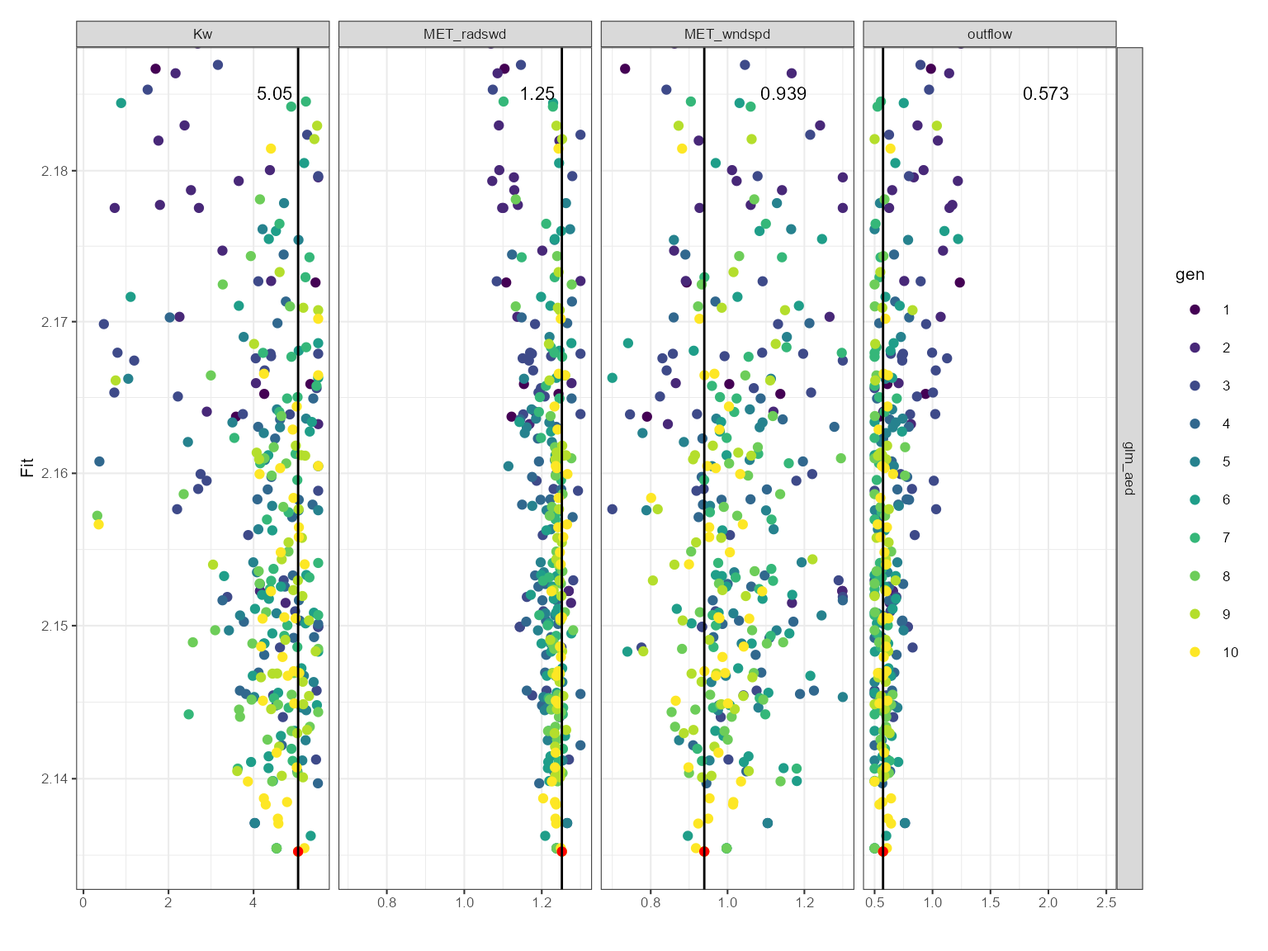
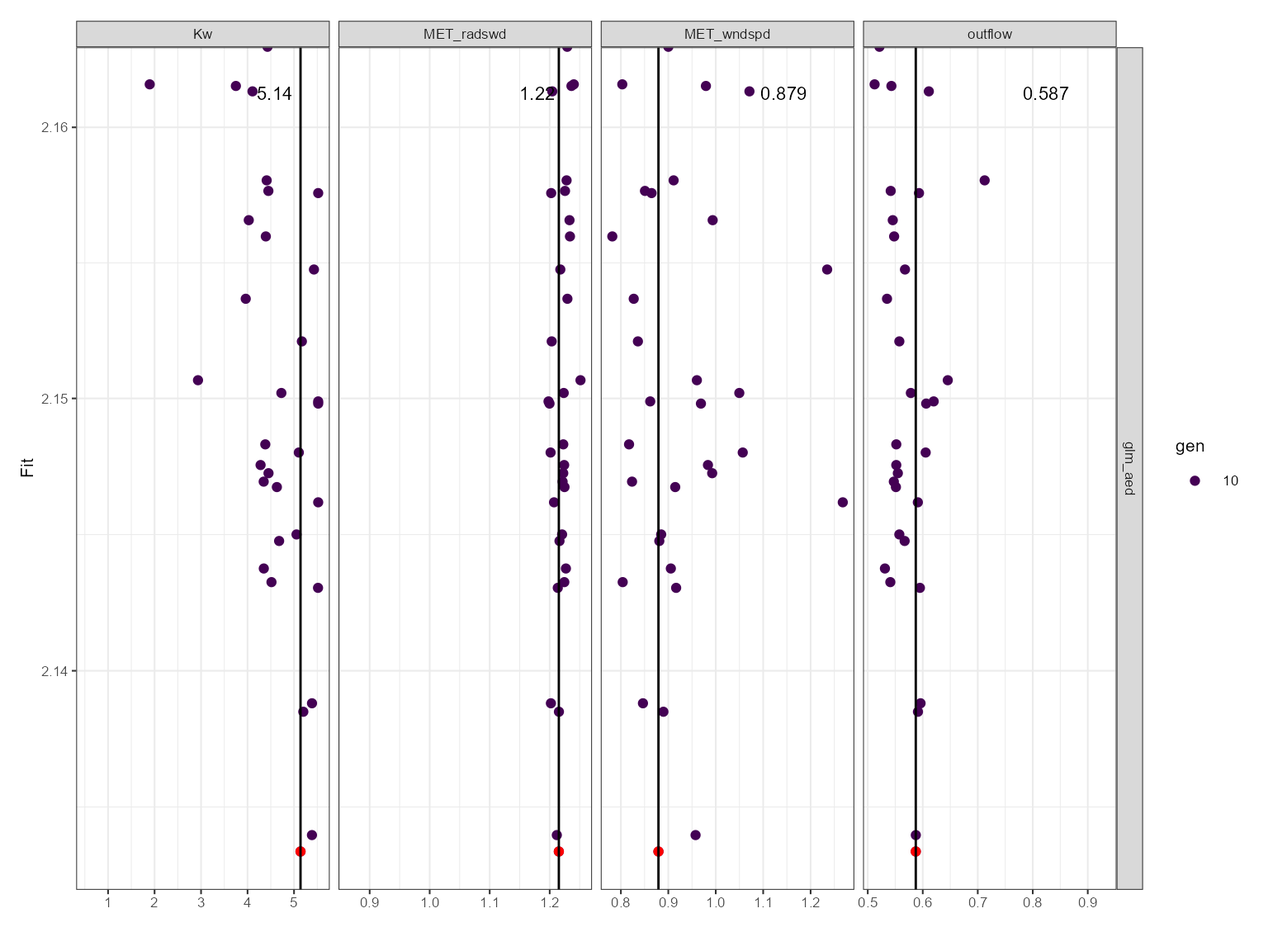
Deploying to gh-pages from @ limnotrack/aemetools@8c4f77b0e2bd330ee721761af3145bfec17b4a3d 🚀

diff --git a/articles/calibrate-aeme.html b/articles/calibrate-aeme.html
@@ -121,9 +121,9 @@ make sure the current model setup is working.</p>
 <code class="sourceCode R"><span><span class="va">aeme_data</span> <span class="op">&lt;-</span> <span class="fu"><a href="https://rdrr.io/pkg/AEME/man/run_aeme.html" class="external-link">run_aeme</a></span><span class="op">(</span>aeme_data <span class="op">=</span> <span class="va">aeme_data</span>, model <span class="op">=</span> <span class="va">model</span>,</span>
 <span>                      verbose <span class="op">=</span> <span class="cn">FALSE</span>, mod_ctrls <span class="op">=</span> <span class="va">mod_ctrls</span>,</span>
 <span>                      path <span class="op">=</span> <span class="va">path</span><span class="op">)</span></span>
-<span><span class="co">#&gt; Running models... (Have you tried parallelizing?) [2024-01-05 03:34:43]</span></span>
-<span><span class="co">#&gt; GLM-AED run successful! [2024-01-05 03:34:44]</span></span>
-<span><span class="co">#&gt; Model run complete![2024-01-05 03:34:44]</span></span>
+<span><span class="co">#&gt; Running models... (Have you tried parallelizing?) [2024-01-08 02:20:13]</span></span>
+<span><span class="co">#&gt; GLM-AED run successful! [2024-01-08 02:20:14]</span></span>
+<span><span class="co">#&gt; Model run complete![2024-01-08 02:20:14]</span></span>
 <span><span class="co">#&gt; Retrieving and formatting temp for model glm_aed</span></span>
 <span><span class="co">#&gt; Retrieving and formatting salt for model glm_aed</span></span>
 <span><span class="fu"><a href="https://rdrr.io/r/graphics/plot.default.html" class="external-link">plot</a></span><span class="op">(</span><span class="va">aeme_data</span><span class="op">)</span></span></code></pre></div>
@@ -228,9 +228,9 @@ but the model output is generate within the lake folder.</p>
 <div class="sourceCode" id="cb7"><pre class="downlit sourceCode r">
 <code class="sourceCode R"><span><span class="fu"><a href="../reference/run_aeme_param.html">run_aeme_param</a></span><span class="op">(</span>aeme_data <span class="op">=</span> <span class="va">aeme_data</span>, param <span class="op">=</span> <span class="va">aeme_parameters</span>,</span>
 <span>                 model <span class="op">=</span> <span class="va">model</span>, path <span class="op">=</span> <span class="va">path</span>, mod_ctrls <span class="op">=</span> <span class="va">mod_ctrls</span><span class="op">)</span></span>
-<span><span class="co">#&gt; Running models... (Have you tried parallelizing?) [2024-01-05 03:34:50]</span></span>
-<span><span class="co">#&gt; GLM-AED run successful! [2024-01-05 03:34:51]</span></span>
-<span><span class="co">#&gt; Model run complete![2024-01-05 03:34:51]</span></span></code></pre></div>
+<span><span class="co">#&gt; Running models... (Have you tried parallelizing?) [2024-01-08 02:20:26]</span></span>
+<span><span class="co">#&gt; GLM-AED run successful! [2024-01-08 02:20:27]</span></span>
+<span><span class="co">#&gt; Model run complete![2024-01-08 02:20:27]</span></span></code></pre></div>
 </div>
 <div class="section level2">
 <h2 id="calibration-setup">Calibration setup<a class="anchor" aria-label="anchor" href="#calibration-setup"></a>
@@ -379,90 +379,80 @@ values.</p>
 <span>                   param <span class="op">=</span> <span class="va">aeme_parameters</span>, model <span class="op">=</span> <span class="va">model</span>,</span>
 <span>                   mod_ctrls <span class="op">=</span> <span class="va">mod_ctrls</span>, FUN_list <span class="op">=</span> <span class="va">FUN_list</span>, ctrl <span class="op">=</span> <span class="va">ctrl</span>,</span>
 <span>                   vars_sim <span class="op">=</span> <span class="va">vars_sim</span>, weights <span class="op">=</span> <span class="va">weights</span><span class="op">)</span></span>
-<span><span class="co">#&gt; Extracting indices for modelled variables [2024-01-05 03:34:51]</span></span>
-<span><span class="co">#&gt; Complete! [2024-01-05 03:34:52]</span></span>
+<span><span class="co">#&gt; Extracting indices for modelled variables [2024-01-08 02:20:27]</span></span>
+<span><span class="co">#&gt; Complete! [2024-01-08 02:20:28]</span></span>
 <span><span class="co">#&gt; Calibrating in parallel using 1 cores...</span></span>
-<span><span class="co">#&gt; Starting generation 1/10, 40 members. [2024-01-05 03:34:53]</span></span>
+<span><span class="co">#&gt; Starting generation 1/10, 40 members. [2024-01-08 02:20:28]</span></span>
 <span><span class="co">#&gt;        light.Kw MET_wndspd MET_radswd outflow</span></span>
-<span><span class="co">#&gt; mean      2.814     1.0000     0.9990  1.4990</span></span>
-<span><span class="co">#&gt; median    2.788     1.0020     0.9997  1.4930</span></span>
-<span><span class="co">#&gt; sd        1.577     0.1755     0.1760  0.5854</span></span>
-<span><span class="co">#&gt; Best fit: 2.152 (sd: 216.943)</span></span>
-<span><span class="co">#&gt;             Parameters: [4.152, 1.299, 1.27, 0.658]</span></span>
-<span><span class="co">#&gt; Writing output for generation 1 to results.csv. [2024-01-05 03:35:31]</span></span>
+<span><span class="co">#&gt; mean      2.816     1.0000     0.9995  1.5020</span></span>
+<span><span class="co">#&gt; median    2.829     1.0040     0.9986  1.5000</span></span>
+<span><span class="co">#&gt; sd        1.588     0.1746     0.1759  0.5872</span></span>
+<span><span class="co">#&gt; Best fit: 2.16 (sd: 222.003)</span></span>
+<span><span class="co">#&gt;             Parameters: [3.715, 0.993, 1.249, 0.955]</span></span>
 <span><span class="co">#&gt; Survival rate: 1</span></span>
-<span><span class="co">#&gt; Starting generation 2/10, 40 members. [2024-01-05 03:35:31]</span></span>
+<span><span class="co">#&gt; Starting generation 2/10, 40 members. [2024-01-08 02:21:03]</span></span>
 <span><span class="co">#&gt;        light.Kw MET_wndspd MET_radswd outflow</span></span>
-<span><span class="co">#&gt; mean      2.887     1.0650      1.088  1.0000</span></span>
-<span><span class="co">#&gt; median    2.702     1.0550      1.090  0.9216</span></span>
-<span><span class="co">#&gt; sd        1.734     0.1692      0.124  0.4290</span></span>
-<span><span class="co">#&gt; Writing output for generation 2 to results.csv. [2024-01-05 03:36:08]</span></span>
-<span><span class="co">#&gt; Best fit: 2.1499 (sd: 128.32)</span></span>
+<span><span class="co">#&gt; mean      2.974     1.0630    1.14500  0.9813</span></span>
+<span><span class="co">#&gt; median    2.908     1.0860    1.16100  0.9149</span></span>
+<span><span class="co">#&gt; sd        1.880     0.1495    0.08808  0.4569</span></span>
+<span><span class="co">#&gt; Best fit: 2.1403 (sd: 138.01)</span></span>
 <span><span class="co">#&gt; Survival rate: 1</span></span>
-<span><span class="co">#&gt; Starting generation 3/10, 40 members. [2024-01-05 03:36:08]</span></span>
+<span><span class="co">#&gt; Starting generation 3/10, 40 members. [2024-01-08 02:21:38]</span></span>
 <span><span class="co">#&gt;        light.Kw MET_wndspd MET_radswd outflow</span></span>
-<span><span class="co">#&gt; mean      3.821     1.0210    1.19100  0.9032</span></span>
-<span><span class="co">#&gt; median    4.081     1.0040    1.20300  0.8055</span></span>
-<span><span class="co">#&gt; sd        1.472     0.1723    0.09369  0.4150</span></span>
-<span><span class="co">#&gt; Writing output for generation 3 to results.csv. [2024-01-05 03:36:46]</span></span>
-<span><span class="co">#&gt; Best fit: 2.1371 (sd: 132.15)</span></span>
+<span><span class="co">#&gt; mean      3.511     1.0050    1.16500  0.8872</span></span>
+<span><span class="co">#&gt; median    3.289     1.0080    1.18600  0.8108</span></span>
+<span><span class="co">#&gt; sd        1.163     0.1469    0.09507  0.3310</span></span>
+<span><span class="co">#&gt; Best fit: 2.1403 (sd: 106.19)</span></span>
 <span><span class="co">#&gt; Survival rate: 1</span></span>
-<span><span class="co">#&gt; Starting generation 4/10, 40 members. [2024-01-05 03:36:46]</span></span>
+<span><span class="co">#&gt; Starting generation 4/10, 40 members. [2024-01-08 02:22:13]</span></span>
 <span><span class="co">#&gt;        light.Kw MET_wndspd MET_radswd outflow</span></span>
-<span><span class="co">#&gt; mean     4.5480     1.0460     1.1910  0.7409</span></span>
-<span><span class="co">#&gt; median   4.7230     1.0440     1.2090  0.6680</span></span>
-<span><span class="co">#&gt; sd       0.9888     0.1284     0.1001  0.3460</span></span>
-<span><span class="co">#&gt; Writing output for generation 4 to results.csv. [2024-01-05 03:37:26]</span></span>
-<span><span class="co">#&gt; Best fit: 2.1371 (sd: 118.67)</span></span>
+<span><span class="co">#&gt; mean      3.146     0.9300     1.1800  0.8561</span></span>
+<span><span class="co">#&gt; median    3.211     0.9046     1.2100  0.7568</span></span>
+<span><span class="co">#&gt; sd        1.215     0.1695     0.1191  0.3914</span></span>
+<span><span class="co">#&gt; Best fit: 2.1403 (sd: 129.29)</span></span>
 <span><span class="co">#&gt; Survival rate: 1</span></span>
-<span><span class="co">#&gt; Starting generation 5/10, 40 members. [2024-01-05 03:37:26]</span></span>
+<span><span class="co">#&gt; Starting generation 5/10, 40 members. [2024-01-08 02:22:47]</span></span>
 <span><span class="co">#&gt;        light.Kw MET_wndspd MET_radswd outflow</span></span>
-<span><span class="co">#&gt; mean      4.286      1.049     1.1870  0.7150</span></span>
-<span><span class="co">#&gt; median    4.435      1.058     1.2140  0.6085</span></span>
-<span><span class="co">#&gt; sd        1.043      0.121     0.1085  0.3216</span></span>
-<span><span class="co">#&gt; Writing output for generation 5 to results.csv. [2024-01-05 03:38:04]</span></span>
-<span><span class="co">#&gt; Best fit: 2.1355 (sd: 105.35)</span></span>
+<span><span class="co">#&gt; mean      2.918     0.8769      1.197  0.7257</span></span>
+<span><span class="co">#&gt; median    2.741     0.8546      1.204  0.6308</span></span>
+<span><span class="co">#&gt; sd        1.197     0.1443      0.043  0.3572</span></span>
+<span><span class="co">#&gt; Best fit: 2.1403 (sd: 95.102)</span></span>
 <span><span class="co">#&gt; Survival rate: 1</span></span>
-<span><span class="co">#&gt; Starting generation 6/10, 40 members. [2024-01-05 03:38:04]</span></span>
+<span><span class="co">#&gt; Starting generation 6/10, 40 members. [2024-01-08 02:23:22]</span></span>
 <span><span class="co">#&gt;        light.Kw MET_wndspd MET_radswd outflow</span></span>
-<span><span class="co">#&gt; mean     4.5140     1.0090    1.21700  0.6791</span></span>
-<span><span class="co">#&gt; median   4.5340     1.0020    1.22700  0.6112</span></span>
-<span><span class="co">#&gt; sd       0.9882     0.1241    0.06525  0.2901</span></span>
-<span><span class="co">#&gt; Writing output for generation 6 to results.csv. [2024-01-05 03:38:44]</span></span>
-<span><span class="co">#&gt; Best fit: 2.1355 (sd: 84.13)</span></span>
+<span><span class="co">#&gt; mean     3.2610     0.8283     1.1830  0.6884</span></span>
+<span><span class="co">#&gt; median   3.2580     0.7803     1.2180  0.5670</span></span>
+<span><span class="co">#&gt; sd       0.9532     0.1546     0.1209  0.3851</span></span>
+<span><span class="co">#&gt; Best fit: 2.1403 (sd: 106.18)</span></span>
 <span><span class="co">#&gt; Survival rate: 1</span></span>
-<span><span class="co">#&gt; Starting generation 7/10, 40 members. [2024-01-05 03:38:44]</span></span>
+<span><span class="co">#&gt; Starting generation 7/10, 40 members. [2024-01-08 02:23:58]</span></span>
 <span><span class="co">#&gt;        light.Kw MET_wndspd MET_radswd outflow</span></span>
-<span><span class="co">#&gt; mean     4.5880    1.04900    1.20300  0.6566</span></span>
-<span><span class="co">#&gt; median   4.8090    1.05700    1.23100  0.5380</span></span>
-<span><span class="co">#&gt; sd       0.9247    0.09023    0.09992  0.4268</span></span>
-<span><span class="co">#&gt; Writing output for generation 7 to results.csv. [2024-01-05 03:39:22]</span></span>
-<span><span class="co">#&gt; Best fit: 2.1355 (sd: 128.33)</span></span>
+<span><span class="co">#&gt; mean      4.065     0.9212    1.20400  0.6218</span></span>
+<span><span class="co">#&gt; median    4.186     0.8745    1.21800  0.5514</span></span>
+<span><span class="co">#&gt; sd        1.020     0.2035    0.05326  0.2705</span></span>
+<span><span class="co">#&gt; Best fit: 2.1393 (sd: 76.069)</span></span>
 <span><span class="co">#&gt; Survival rate: 1</span></span>
-<span><span class="co">#&gt; Starting generation 8/10, 40 members. [2024-01-05 03:39:22]</span></span>
+<span><span class="co">#&gt; Starting generation 8/10, 40 members. [2024-01-08 02:24:33]</span></span>
 <span><span class="co">#&gt;        light.Kw MET_wndspd MET_radswd outflow</span></span>
-<span><span class="co">#&gt; mean      4.237    1.01400      1.212  0.6165</span></span>
-<span><span class="co">#&gt; median    4.456    1.00700      1.239  0.5749</span></span>
-<span><span class="co">#&gt; sd        1.008    0.09026      0.114  0.2291</span></span>
-<span><span class="co">#&gt; Writing output for generation 8 to results.csv. [2024-01-05 03:40:01]</span></span>
-<span><span class="co">#&gt; Best fit: 2.1353 (sd: 76.067)</span></span>
+<span><span class="co">#&gt; mean     3.9920     0.8316     1.1950  0.6679</span></span>
+<span><span class="co">#&gt; median   3.9140     0.7964     1.2240  0.5465</span></span>
+<span><span class="co">#&gt; sd       0.9833     0.1420     0.1048  0.4030</span></span>
+<span><span class="co">#&gt; Best fit: 2.1356 (sd: 118.65)</span></span>
 <span><span class="co">#&gt; Survival rate: 1</span></span>
-<span><span class="co">#&gt; Starting generation 9/10, 40 members. [2024-01-05 03:40:01]</span></span>
+<span><span class="co">#&gt; Starting generation 9/10, 40 members. [2024-01-08 02:25:08]</span></span>
 <span><span class="co">#&gt;        light.Kw MET_wndspd MET_radswd outflow</span></span>
-<span><span class="co">#&gt; mean     4.7070    0.97490     1.2130 0.58880</span></span>
-<span><span class="co">#&gt; median   4.9640    0.96840     1.2430 0.57690</span></span>
-<span><span class="co">#&gt; sd       0.8334    0.09575     0.1116 0.09303</span></span>
-<span><span class="co">#&gt; Writing output for generation 9 to results.csv. [2024-01-05 03:40:39]</span></span>
-<span><span class="co">#&gt; Best fit: 2.1353 (sd: 0.10726)</span></span>
+<span><span class="co">#&gt; mean      4.021     0.9204    1.20800  0.6374</span></span>
+<span><span class="co">#&gt; median    4.178     0.9271    1.22300  0.5524</span></span>
+<span><span class="co">#&gt; sd        1.278     0.1235    0.08341  0.2873</span></span>
+<span><span class="co">#&gt; Best fit: 2.134 (sd: 84.127)</span></span>
 <span><span class="co">#&gt; Survival rate: 1</span></span>
-<span><span class="co">#&gt; Starting generation 10/10, 40 members. [2024-01-05 03:40:39]</span></span>
+<span><span class="co">#&gt; Starting generation 10/10, 40 members. [2024-01-08 02:25:42]</span></span>
 <span><span class="co">#&gt;        light.Kw MET_wndspd MET_radswd outflow</span></span>
-<span><span class="co">#&gt; mean     4.6290    0.96780    1.22600  0.6523</span></span>
-<span><span class="co">#&gt; median   4.7560    0.96960    1.24300  0.5862</span></span>
-<span><span class="co">#&gt; sd       0.8143    0.05572    0.07432  0.3105</span></span>
-<span><span class="co">#&gt; Writing output for generation 10 to results.csv. [2024-01-05 03:41:17]</span></span>
-<span><span class="co">#&gt; Best fit: 2.1353 (sd: 93.88)</span></span>
-<span><span class="co">#&gt; Survival rate: 1</span></span></code></pre></div>
+<span><span class="co">#&gt; mean      4.499     0.9314    1.19600 0.58990</span></span>
+<span><span class="co">#&gt; median    4.573     0.9027    1.21700 0.56740</span></span>
+<span><span class="co">#&gt; sd        1.135     0.1157    0.07907 0.08665</span></span>
+<span><span class="co">#&gt; Best fit: 2.1334 (sd: 0.055958)</span></span>
+<span><span class="co">#&gt; Model has converged. Stopping simulation.</span></span></code></pre></div>
 </div>
 <div class="section level2">
 <h2 id="visualise-calibration-results">Visualise calibration results<a class="anchor" aria-label="anchor" href="#visualise-calibration-results"></a>

diff --git a/reference/sa_aeme.html b/reference/sa_aeme.html
@@ -1,0 +1,172 @@
+<!DOCTYPE html>
+<!-- Generated by pkgdown: do not edit by hand --><html lang="en"><head><meta http-equiv="Content-Type" content="text/html; charset=UTF-8"><meta charset="utf-8"><meta http-equiv="X-UA-Compatible" content="IE=edge"><meta name="viewport" content="width=device-width, initial-scale=1, shrink-to-fit=no"><meta name="description" content="calib_model() runs the model and compares it against observations provided.
+It can run in parallel by using multiple cores availlable on your computer
+to run quicker."><title>Conduct a sensitivity analysis on AEME model parameters — sa_aeme • aemetools</title><script src="../deps/jquery-3.6.0/jquery-3.6.0.min.js"></script><meta name="viewport" content="width=device-width, initial-scale=1, shrink-to-fit=no"><link href="../deps/bootstrap-5.3.1/bootstrap.min.css" rel="stylesheet"><script src="../deps/bootstrap-5.3.1/bootstrap.bundle.min.js"></script><!-- Font Awesome icons --><link rel="stylesheet" href="https://cdnjs.cloudflare.com/ajax/libs/font-awesome/5.12.1/css/all.min.css" integrity="sha256-mmgLkCYLUQbXn0B1SRqzHar6dCnv9oZFPEC1g1cwlkk=" crossorigin="anonymous"><link rel="stylesheet" href="https://cdnjs.cloudflare.com/ajax/libs/font-awesome/5.12.1/css/v4-shims.min.css" integrity="sha256-wZjR52fzng1pJHwx4aV2AO3yyTOXrcDW7jBpJtTwVxw=" crossorigin="anonymous"><!-- bootstrap-toc --><script src="https://cdn.jsdelivr.net/gh/afeld/bootstrap-toc@v1.0.1/dist/bootstrap-toc.min.js" integrity="sha256-4veVQbu7//Lk5TSmc7YV48MxtMy98e26cf5MrgZYnwo=" crossorigin="anonymous"></script><!-- headroom.js --><script src="https://cdnjs.cloudflare.com/ajax/libs/headroom/0.11.0/headroom.min.js" integrity="sha256-AsUX4SJE1+yuDu5+mAVzJbuYNPHj/WroHuZ8Ir/CkE0=" crossorigin="anonymous"></script><script src="https://cdnjs.cloudflare.com/ajax/libs/headroom/0.11.0/jQuery.headroom.min.js" integrity="sha256-ZX/yNShbjqsohH1k95liqY9Gd8uOiE1S4vZc+9KQ1K4=" crossorigin="anonymous"></script><!-- clipboard.js --><script src="https://cdnjs.cloudflare.com/ajax/libs/clipboard.js/2.0.6/clipboard.min.js" integrity="sha256-inc5kl9MA1hkeYUt+EC3BhlIgyp/2jDIyBLS6k3UxPI=" crossorigin="anonymous"></script><!-- search --><script src="https://cdnjs.cloudflare.com/ajax/libs/fuse.js/6.4.6/fuse.js" integrity="sha512-zv6Ywkjyktsohkbp9bb45V6tEMoWhzFzXis+LrMehmJZZSys19Yxf1dopHx7WzIKxr5tK2dVcYmaCk2uqdjF4A==" crossorigin="anonymous"></script><script src="https://cdnjs.cloudflare.com/ajax/libs/autocomplete.js/0.38.0/autocomplete.jquery.min.js" integrity="sha512-GU9ayf+66Xx2TmpxqJpliWbT5PiGYxpaG8rfnBEk1LL8l1KGkRShhngwdXK1UgqhAzWpZHSiYPc09/NwDQIGyg==" crossorigin="anonymous"></script><script src="https://cdnjs.cloudflare.com/ajax/libs/mark.js/8.11.1/mark.min.js" integrity="sha512-5CYOlHXGh6QpOFA/TeTylKLWfB3ftPsde7AnmhuitiTX4K5SqCLBeKro6sPS8ilsz1Q4NRx3v8Ko2IBiszzdww==" crossorigin="anonymous"></script><!-- pkgdown --><script src="../pkgdown.js"></script><meta property="og:title" content="Conduct a sensitivity analysis on AEME model parameters — sa_aeme"><meta property="og:description" content="calib_model() runs the model and compares it against observations provided.
+It can run in parallel by using multiple cores availlable on your computer
+to run quicker."><!-- mathjax --><script src="https://cdnjs.cloudflare.com/ajax/libs/mathjax/2.7.5/MathJax.js" integrity="sha256-nvJJv9wWKEm88qvoQl9ekL2J+k/RWIsaSScxxlsrv8k=" crossorigin="anonymous"></script><script src="https://cdnjs.cloudflare.com/ajax/libs/mathjax/2.7.5/config/TeX-AMS-MML_HTMLorMML.js" integrity="sha256-84DKXVJXs0/F8OTMzX4UR909+jtl4G7SPypPavF+GfA=" crossorigin="anonymous"></script><!--[if lt IE 9]>
+<script src="https://oss.maxcdn.com/html5shiv/3.7.3/html5shiv.min.js"></script>
+<script src="https://oss.maxcdn.com/respond/1.4.2/respond.min.js"></script>
+<![endif]--></head><body>
+    <a href="#main" class="visually-hidden-focusable">Skip to contents</a>
+    
+
+    <nav class="navbar fixed-top navbar-dark navbar-expand-lg bg-primary"><div class="container">
+    
+    <a class="navbar-brand me-2" href="../index.html">aemetools</a>
+
+    <small class="nav-text text-muted me-auto" data-bs-toggle="tooltip" data-bs-placement="bottom" title="">0.0.0.9000</small>
+
+    
+    <button class="navbar-toggler" type="button" data-bs-toggle="collapse" data-bs-target="#navbar" aria-controls="navbar" aria-expanded="false" aria-label="Toggle navigation">
+      <span class="navbar-toggler-icon"></span>
+    </button>
+
+    <div id="navbar" class="collapse navbar-collapse ms-3">
+      <ul class="navbar-nav me-auto"><li class="active nav-item">
+  <a class="nav-link" href="../reference/index.html">Reference</a>
+</li>
+<li class="nav-item dropdown">
+  <a href="#" class="nav-link dropdown-toggle" data-bs-toggle="dropdown" role="button" aria-expanded="false" aria-haspopup="true" id="dropdown-articles">Articles</a>
+  <div class="dropdown-menu" aria-labelledby="dropdown-articles">
+    <a class="dropdown-item" href="../articles/calibrate-aeme.html">Calibrate AEME</a>
+    <a class="dropdown-item" href="../articles/download-era5.html">Download ERA5 data</a>
+  </div>
+</li>
+      </ul><form class="form-inline my-2 my-lg-0" role="search">
+        <input type="search" class="form-control me-sm-2" aria-label="Toggle navigation" name="search-input" data-search-index="../search.json" id="search-input" placeholder="Search for" autocomplete="off"></form>
+
+      <ul class="navbar-nav"></ul></div>
+
+    
+  </div>
+</nav><div class="container template-reference-topic">
+<div class="row">
+  <main id="main" class="col-md-9"><div class="page-header">
+      <img src="" class="logo" alt=""><h1>Conduct a sensitivity analysis on AEME model parameters</h1>
+      
+      <div class="d-none name"><code>sa_aeme.Rd</code></div>
+    </div>
+
+    <div class="ref-description section level2">
+    <p><code>calib_model()</code> runs the model and compares it against observations provided.
+It can run in parallel by using multiple cores availlable on your computer
+to run quicker.</p>
+    </div>
+
+    <div class="section level2">
+    <h2 id="ref-usage">Usage<a class="anchor" aria-label="anchor" href="#ref-usage"></a></h2>
+    <div class="sourceCode"><pre class="sourceCode r"><code><span><span class="fu">sa_aeme</span><span class="op">(</span></span>
+<span>  <span class="va">aeme_data</span>,</span>
+<span>  path <span class="op">=</span> <span class="st">"."</span>,</span>
+<span>  <span class="va">param</span>,</span>
+<span>  <span class="va">model</span>,</span>
+<span>  <span class="va">mod_ctrls</span>,</span>
+<span>  vars_sim <span class="op">=</span> <span class="st">"HYD_temp"</span>,</span>
+<span>  FUN_list <span class="op">=</span> <span class="cn">NULL</span>,</span>
+<span>  ctrl <span class="op">=</span> <span class="cn">NULL</span>,</span>
+<span>  weights <span class="op">=</span> <span class="fu"><a href="https://rdrr.io/r/base/c.html" class="external-link">c</a></span><span class="op">(</span><span class="fl">1</span><span class="op">)</span>,</span>
+<span>  param_df <span class="op">=</span> <span class="cn">NULL</span></span>
+<span><span class="op">)</span></span></code></pre></div>
+    </div>
+
+    <div class="section level2">
+    <h2 id="arguments">Arguments<a class="anchor" aria-label="anchor" href="#arguments"></a></h2>
+    <dl><dt>aeme_data</dt>
+<dd><p>aeme; data object.</p></dd>
+
+
+<dt>path</dt>
+<dd><p>filepath; where input files are located relative to `config`.</p></dd>
+
+
+<dt>param</dt>
+<dd><p>dataframe; of parameters read in from a csv file. Requires the
+columns c("model", "file", "name", "value", "min", "max", "log")</p></dd>
+
+
+<dt>model</dt>
+<dd><p>string; for which model. Options are c("dy_cd", "glm_aed" and
+"gotm_wet")</p></dd>
+
+
+<dt>mod_ctrls</dt>
+<dd><p>dataframe; of configuration loaded from
+"mod_ctrls.csv".</p></dd>
+
+
+<dt>vars_sim</dt>
+<dd><p>vector; of variables names to be used in the calculation of
+model fit. Currently only supports using one variable.</p></dd>
+
+
+<dt>FUN_list</dt>
+<dd><p>list of functions; named according to the variables in the
+<code>vars_sim</code>. Funtions are of the form <code>function(df)</code> which will be used
+to calculate model fit. If NULL, uses mean absolute error (MAE).</p></dd>
+
+
+<dt>ctrl</dt>
+<dd><p>list; of controls for calibration function.</p><ul><li><p><code>VTR</code> Value to be reached. The optimization process will stop if
+either the maximum number of iterations itermax is reached or the best
+parameter vector bestmem has found a value fn(bestmem) &lt;= VTR. Default to
+-Inf.</p></li>
+<li><p><code>NP</code> number of population members. Defaults to NA; if the user does not
+change the value of NP from NA it is reset as
+<code>10 * sum(param$model == model)</code>. For many  problems it is best to set NP
+to be at least 10 times the length of the parameter vector.</p></li>
+<li><p><code>itermax</code> the maximum iteration (population generation) allowed.
+Default is 200.</p></li>
+<li><p><code>reltol</code> relative convergence tolerance. The algorithm stops if it is
+unable to reduce the value by a factor of <code>reltol * (abs(val) + reltol)</code>.
+Default = 0.07</p></li>
+<li><p><code>cutoff</code>: The quantile cutoff used to select the parents for the next
+generation. For example, if <code>cutoff = 0.25</code>, the best 25% of the population
+will be used as parents for the next generation.</p></li>
+<li><p><code>mutate</code> fraction of population to undergo mutation (0-1).</p></li>
+<li><p><code>parallel</code> boolean; run calibration in parallel. Default to TRUE</p></li>
+<li><p><code>out_file</code> filepath; to csv for calibration output to be written to.
+Defaults to "results.csv"</p></li>
+<li><p><code>na_value</code> value to replace NA values with in observations. Default to</p></li>
+</ul><ol><li><p></p></li>
+</ol><ul><li><p><code>ncore</code>: The number of cores to use for the calibration. This is only used
+if <code>parallel = TRUE</code>. Default to <code>parallel::detectCores() - 1</code>.</p></li>
+</ul></dd>
+
+
+<dt>weights</dt>
+<dd><p>vector; of weights for each variable in vars_sim. Default to
+c(1).</p></dd>
+
+
+<dt>param_df</dt>
+<dd><p>dataframe; of parameters read in from a csv file. Requires
+the columns c("model", "file", "name", "value", "min", "max").</p></dd>
+
+</dl></div>
+    <div class="section level2">
+    <h2 id="value">Value<a class="anchor" aria-label="anchor" href="#value"></a></h2>
+    
+
+<p>list; ctrl which was supplied with updated arguments if missing.</p>
+    </div>
+
+  </main><aside class="col-md-3"><nav id="toc"><h2>On this page</h2>
+    </nav></aside></div>
+
+
+    <footer><div class="pkgdown-footer-left">
+  <p></p><p>Developed by Tadhg Moore, Chris McBride.</p>
+</div>
+
+<div class="pkgdown-footer-right">
+  <p></p><p>Site built with <a href="https://pkgdown.r-lib.org/" class="external-link">pkgdown</a> 2.0.7.</p>
+</div>
+
+    </footer></div>
+
+  
+
+  
+
+  </body></html>
+

diff --git a/articles/download-era5.html b/articles/download-era5.html
@@ -76,7 +76,7 @@
 </h3>
 <p>Currently, there is <a href="https://cds.climate.copernicus.eu/cdsapp#!/dataset/reanalysis-era5-land" class="external-link">ERA5-Land
 data</a> (~9km grid spacing) archived for New Zealand
-(166.5/-46.6/178.6/-34.5) for the time period 1999-2022 with the main
+(166.5/-46.6/178.6/-34.5) for the time period 1980-2022 with the main
 meteorological variables (air temperature, dewpoint temperature, wind
 u-vector at 10m, wind v-vector at 10m, total precipitation, snowfall,
 surface level pressure, downwelling shortwave radiation, downwelling
@@ -94,8 +94,8 @@ your computer to speed up the download.</p>
 <span><span class="va">met</span> <span class="op">&lt;-</span> <span class="fu"><a href="../reference/get_era5_point.html">get_era5_point</a></span><span class="op">(</span>lat <span class="op">=</span> <span class="va">lat</span>, lon <span class="op">=</span> <span class="va">lon</span>, years <span class="op">=</span> <span class="fl">2000</span><span class="op">:</span><span class="fl">2001</span>,</span>
 <span>                      variables <span class="op">=</span> <span class="va">variables</span>, format <span class="op">=</span> <span class="st">"aeme"</span>, parallel <span class="op">=</span> <span class="cn">FALSE</span><span class="op">)</span></span>
 <span><span class="co">#&gt; Point is in the grid.</span></span>
-<span><span class="co">#&gt; Downloading ERA5 variables... [2024-01-05 03:41:30] (Have you tried parallelising?)</span></span>
-<span><span class="co">#&gt; Finished downloading ERA5 variables! [2024-01-05 03:41:48]</span></span>
+<span><span class="co">#&gt; Downloading ERA5 variables... [2024-01-08 02:26:28] (Have you tried parallelising?)</span></span>
+<span><span class="co">#&gt; Finished downloading ERA5 variables! [2024-01-08 02:26:41]</span></span>
 <span><span class="fu"><a href="https://rdrr.io/r/base/summary.html" class="external-link">summary</a></span><span class="op">(</span><span class="va">met</span><span class="op">)</span></span>
 <span><span class="co">#&gt;       Date              MET_tmpair       MET_pprain     </span></span>
 <span><span class="co">#&gt;  Min.   :2000-01-01   Min.   : 3.983   Min.   : 0.0000  </span></span>

diff --git a/reference/run_and_fit.html b/reference/run_and_fit.html
@@ -63,6 +63,8 @@
 <span>  return_indices <span class="op">=</span> <span class="cn">FALSE</span>,</span>
 <span>  include_wlev <span class="op">=</span> <span class="cn">FALSE</span>,</span>
 <span>  return_df <span class="op">=</span> <span class="cn">FALSE</span>,</span>
+<span>  method <span class="op">=</span> <span class="st">"calib"</span>,</span>
+<span>  sa_ctrl <span class="op">=</span> <span class="cn">NULL</span>,</span>
 <span>  fit <span class="op">=</span> <span class="cn">TRUE</span></span>
 <span><span class="op">)</span></span></code></pre></div>
     </div>
@@ -128,6 +130,11 @@ fit.</p></dd>
 
 <dt>return_df</dt>
 <dd><p>boolean; return dataframe of modelled and observed.</p></dd>
+
+
+<dt>method</dt>
+<dd><p>string; of the method of the model run. Options are c("sa",
+"calib").</p></dd>
 
 
 <dt>fit</dt>

diff --git a/reference/index.html b/reference/index.html
@@ -174,6 +174,11 @@
         <dd>Run GR model</dd>
       </dl><dl><dt>
           
+          <code><a href="sa_aeme.html">sa_aeme()</a></code> 
+        </dt>
+        <dd>Conduct a sensitivity analysis on AEME model parameters</dd>
+      </dl><dl><dt>
+          
           <code><a href="update_param.html">update_param()</a></code> 
         </dt>
         <dd>Update parameter values in param based on best_pars</dd>
